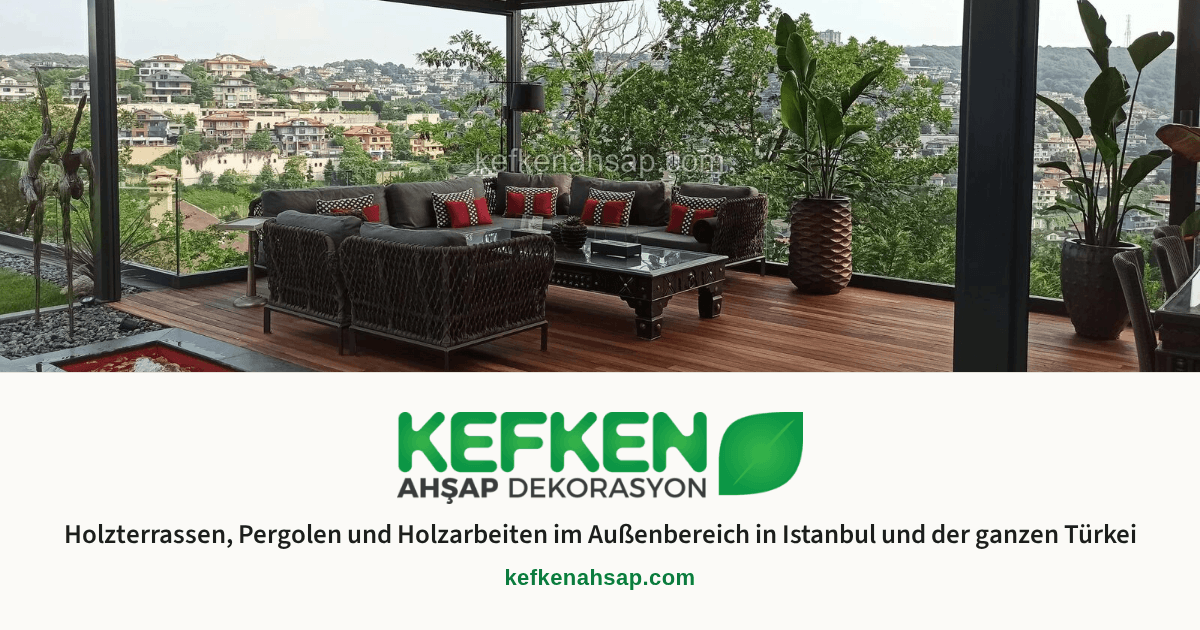
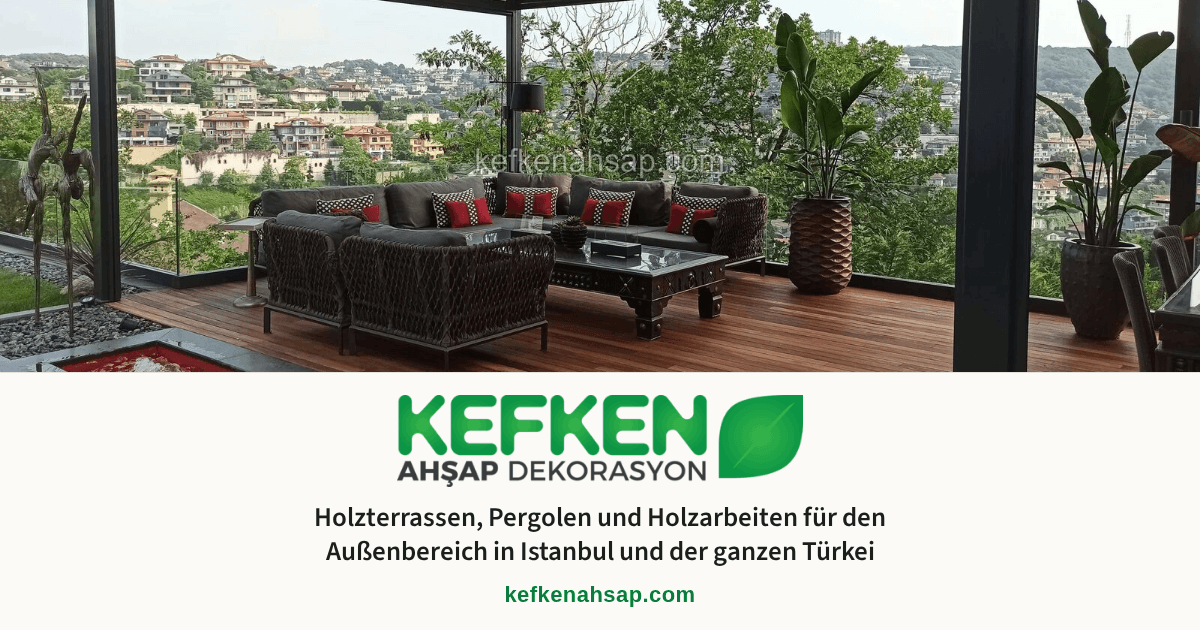
chore(seo): DE tagline wording, template placeholder (#201)

Changed region(s): [[0.0617, 0.6032, 0.9558, 0.9651]]

diff --git a/scripts/og/og.html b/scripts/og/og.html
@@ -72,7 +72,7 @@
     <img class="photo" src="photo.jpg" alt="" />
     <div class="band">
       <img class="logo" src="../../public/brand/logo.png" alt="Kefken Ahşap Dekorasyon" />
-      <p class="tagline" id="tagline">Ahşap deck, pergola ve dış mekân ahşap işleri — İstanbul ve Türkiye geneli</p>
+      <p class="tagline" id="tagline">İstanbul'da ve Türkiye genelinde ahşap deck, pergola ve dış mekân ahşap işleri</p>
       <p class="domain" dir="ltr">kefkenahsap.com</p>
     </div>
   </body>
